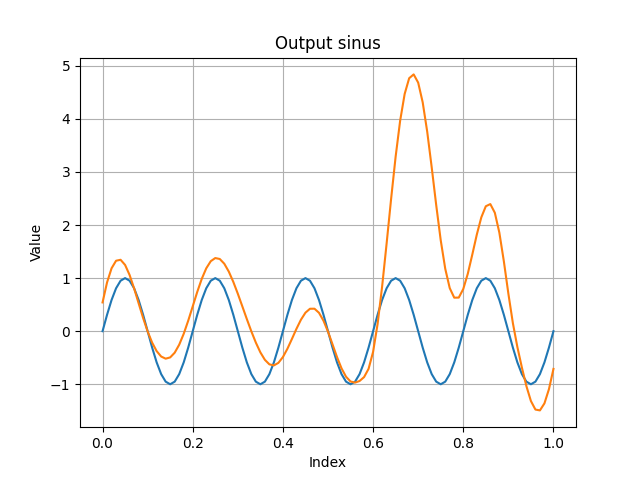
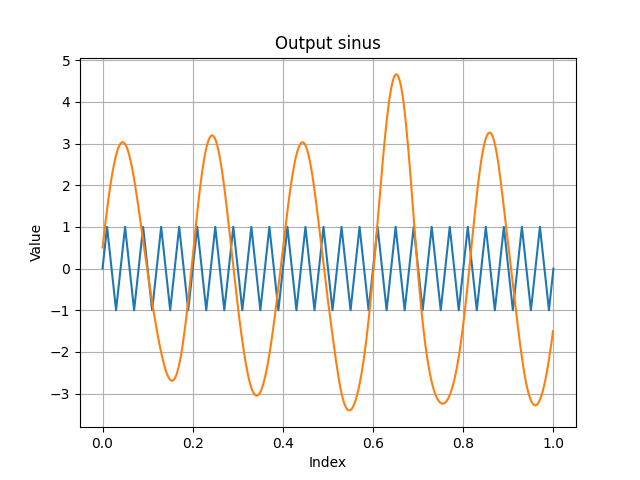
generate heatmap form hyperparameter optimization

diff --git a/moppy/sinus_test/plot_validation.py b/moppy/sinus_test/plot_validation.py
@@ -1,53 +1,80 @@
 import glob
+from typing import List
 import torch
 from matplotlib import pyplot as plt
 import numpy as np
 from pylab import *
 
-files = glob.glob("./output/*/*/*/validation_loss.pth")
-print(len(files))
+class DataPoint():
+    lr: float
+    beta: float
+    validation: List[float]
 
-lowest=[]
+    def __init__(self, lr, beta, validation_val) -> None:
+      self.lr = lr
+      self.beta = beta
+      self.validation = [validation_val]
+
+    def get_mean(self):
+        return np.mean(self.validation)
+
+
+def extract_values_from_path(filepath):
+  values = {}
+  for part in filepath.split("/")[2:-1]:  # Skip leading "./output"
+    key, value = part.split("_")
+    values[key] = float(value) if 'E' in value else int(value)
+  return values
+
+# Example usage
+files = glob.glob("./output/seed_12/*/*/validation_loss.pth")
+points: List[DataPoint] = []
 for f in files:
-    arr = torch.load(f)
-    lowest.append((arr[-1], f))
+    extracted_values = extract_values_from_path(f) # Output: {'seed': 329, 'lr': 0.002, 'beta': 0.0002}
+    validation_value = torch.load(f)[-1]
 
-minl = min([v[0] for v in lowest])
-for i in lowest:
-    if i[0] == minl:
-        print(i)
-exit()
-np_lowest = np.array(lowest)
-data = np_lowest.reshape(5, 7, 6)
+    new_point = DataPoint(extracted_values['lr'], extracted_values['beta'], validation_value)
+    points.append(new_point)
 
-# print(data)
+files = glob.glob("./output/seed_220/*/*/validation_loss.pth")
+for i, f in enumerate(files):
+    validation_value = torch.load(f)[-1]
+    points[i].validation.append(validation_value)
 
-data = np.mean(data, axis=2)
+files = glob.glob("./output/seed_329/*/*/validation_loss.pth")
+for i, f in enumerate(files):
+    validation_value = torch.load(f)[-1]
+    points[i].validation.append(validation_value)
+
+files = glob.glob("./output/seed_2304/*/*/validation_loss.pth")
+for i, f in enumerate(files):
+    validation_value = torch.load(f)[-1]
+    points[i].validation.append(validation_value)
+
+files = glob.glob("./output/seed_6064/*/*/validation_loss.pth")
+for i, f in enumerate(files):
+    validation_value = torch.load(f)[-1]
+    points[i].validation.append(validation_value)
 
 # Extract data for plotting
-x = data[:, 0]
-y = data[:, 1]
-z = data[:, 2]
+x = [p.lr for p in points]
+y = [p.beta for p in points]
+z = [p.get_mean() for p in points]
 
 # creating figures 
 fig = plt.figure(figsize=(10, 10)) 
 ax = fig.add_subplot(111, projection='3d') 
   
-# setting color bar 
-color_map = cm.ScalarMappable(cmap=cm.Greens_r) 
-color_map.set_array(np_lowest) 
-  
 # creating the heatmap 
-img = ax.scatter(x, y, z, marker='s', 
-                 s=200, color='green') 
-plt.colorbar(color_map) 
-  
+#img = ax.scatter(x, y, z, marker='s', s=200, color='green') 
+
 # adding title and labels 
 ax.set_title("3D Heatmap") 
-ax.set_xlabel('X-axis') 
-ax.set_ylabel('Y-axis') 
-ax.set_zlabel('Z-axis') 
-  
+ax.set_xlabel('lr') 
+ax.set_ylabel('beta') 
+ax.set_zlabel('validation') 
+ax.plot_trisurf(x, y, z, color="red", alpha=0.9)
+
 # displaying plot 
 plt.show() 
 fig.savefig(f'./validation.png')

diff --git a/moppy/sinus_test/print_sinus.py b/moppy/sinus_test/print_sinus.py
@@ -27,7 +27,7 @@ def get_sin_trajectory(amplitude, frequency):
         time += 1/100
     return traj
 
-traj = get_sin_trajectory(1, 5)
+traj = get_sin_trajectory(1, 25)
 
 mu, sigma = encoder.encode_to_latent_variable(traj)
 print(f"mu: {mu}")
@@ -39,10 +39,10 @@ print(Z)
 steps = len(traj.get_points())
 time = 0.0
 out_traj = Trajectory()
-for i in range(steps):
+for i in range(steps*10):
     value = decoder.decode_from_latent_variable(Z, time)
-    out_traj.add_point(SinusState(value, traj.get_points()[i].get_time()))
-    time += 1/steps
+    out_traj.add_point(SinusState(value, time))
+    time += 1/(steps*10)
 
 time_vector = torch.tensor([p.get_time()[0] for p in traj.get_points()])
 value_vector = torch.tensor([p.value.item() for p in traj.get_points()])
